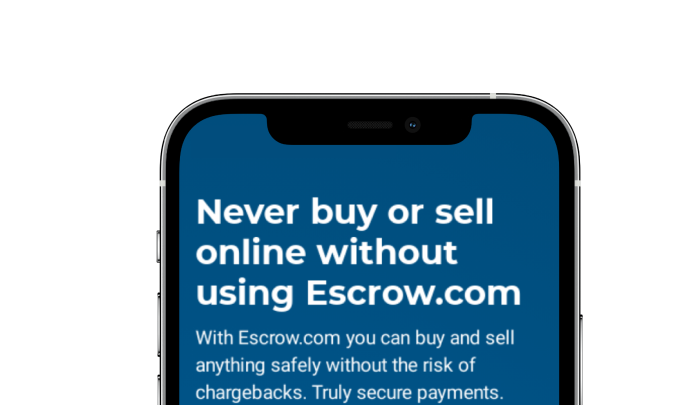
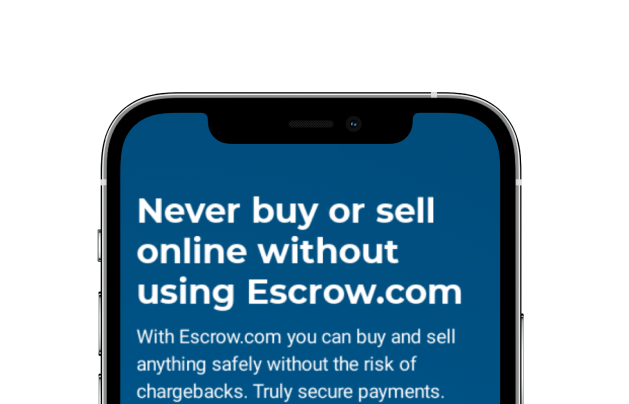
tablet and mobile

Changed region(s): [[0.151, 0.2079, 0.8458, 1.0]]

diff --git a/index.html b/index.html
@@ -17,11 +17,9 @@
     <main class="container-fluid p-0">
         <section style=" background-color: #F0EEEB;">
             <div class="p-2 d-flex justify-content-center bg-black text-white">
-                <img style="width: 22px;" src="./assets/party.svg" alt="">   
-                To celebrate Spenses's lauch, we will be waiving all fees for the entire month of april. <u>You will be receiving 100% of the earnings.</u>
-                <img style="width: 22px;" src="./assets/party.svg" alt="">   
+                <p class="text-white text-center mb-0"><img style="width: 22px;" src="./assets/party.svg" alt="">To celebrate Spenses's lauch, we will be waiving all fees for the entire month of april. <u>You will be receiving 100% of the earnings.</u><img style="width: 22px;" src="./assets/party.svg" alt=""></p>            
             </div>
-            <nav class="navbar navbar-expand-lg navbar-light   ">
+            <nav class="navbar navbar-expand-lg navbar-light p-lg-4  py-lg-5 ">
                 <div class="container">
                     <a class="navbar-brand fw-bold" href="#">spense.</a>
                     <button class="navbar-toggler" type="button" data-bs-toggle="collapse" data-bs-target="#navbarNav"
@@ -58,9 +56,9 @@
                 </div>
             </nav>
             <div class="container">
-                <div class="row align-items-center py-4">
-                    <div class="col-7 ">
-                        <h1 class="fw-bold">Share your unfiltered thoughts. Get paid.</h1>
+                <div class="row align-items-center pb-lg-5">
+                    <div class="col-lg-7 col-md-12 order-lg-1 order-2 py-md-5 py-5">
+                        <h1 class="fw-bold display-2">Share your unfiltered thoughts. Get paid.</h1>
                         <p class="fw-light">Spence is an open platform for individuals to share their unfiltered
                             thoughts.<br>
                             Discuss the topics you love, and get paid for doing <i>just</i> that.
@@ -78,17 +76,19 @@
                             <p class="my-0 ms-3">Withdraw your earnings anytime.</p>
                         </div>
                         <div class="row align-items-center mt-4 ">
-                            <div class="col-4">
+                            <div class="col-md-4 col-lg-4 col-7">
                                 <input class="form-control form-control-lg" type="text"
                                     placeholder="johndoe@exemple.com" aria-label=".form-control-lg">
                             </div>
-                            <div class="col-3">
+                            <div class="col-md-3 col-lg-3 col-4">
                                 <button class="btn-spencer">Get started</button>
                             </div>
                         </div>
                     </div>
-                    <div class="col-5">
-                        <img class="img-fluid" src="./assets/Hero Image (Desktop).png" alt="">
+                    <div id="hero" class="col-lg-5 col-md-12 order-lg-2 col-sm-12 order-1">
+                        <img class="img-fluid d-lg-block d-md-none d-sm-none d-none" src="./assets/Hero Image (Desktop).png" alt="">
+                        <img class="img-fluid d-lg-none d-md-block d-sm-none d-none" src="./assets/Hero Image (Tablet).png" alt="">
+                        <img class="img-fluid d-lg-none d-md-none d-sm-block d-block" src="./assets/Hero Image (Mobile).png" alt="">
                     </div>
                 </div>
             </div>
@@ -96,30 +96,39 @@
         <section>
             <div class="container">
                 <div class="row py-5">
-                    <div class="col-12 d-flex justify-content-between align-items-center">
-                        <img width="130" class="img-fluid" src="./assets/Facebook Logo.png" alt="">
-                        <img width="130" class="img-fluid" src="./assets/Dribbble Logo.png" alt="">
-                        <img width="130" class="img-fluid" src="./assets/Google Logo.png" alt="">
-                        <img width="130" class="img-fluid" src="./assets/Slack Logo.png" alt="">
-                        <img width="130" class="img-fluid" src="./assets/Reddit Logo.png" alt="">
-                        <img width="130" class="img-fluid" src="./assets/Youtube Logo.png" alt="">
+                    <div class="col-lg-12 col-md-12 d-flex justify-content-between align-items-center">
+                        <img width="130" class="img-fluid " src="./assets/Facebook Logo.png" alt="">
+                        <img width="110" class="img-fluid d-md-block d-lg-block " src="./assets/Dribbble Logo.png" alt="">
+                        <img width="110" class="img-fluid d-md-block d-lg-block d-none" src="./assets/Slack Logo.png" alt="">
+                        <img width="110" class="img-fluid d-md-none d-lg-block d-none" src="./assets/Google Logo.png" alt="">
+                        <img width="110" class="img-fluid d-md-none d-lg-block d-none" src="./assets/Pinterest Logo.png" alt="">
+                        <img width="100" class="img-fluid d-none" src="./assets/Reddit Logo.png" alt="">
+                        <img width="120" class="img-fluid" src="./assets/Youtube Logo.png" alt="">
                     </div>
                 </div>
-                <div class="row rounded" style="background-color: #F0EEEB;">
-                    <div class="img-fluid" style="background-image: url(./assets/Phone\ Mockup\ \(Desktop\).png);">
-                        <div class="col-6 " style="padding: 6rem;">
-                            <h2 class="fw-bold">Secure your money with Escrow.</h2>
+                <div class=" rounded"  style="background-color: #F0EEEB;">
+                    <div class=" row" >
+                        <div class="col-lg-6 col-md-12 pb-md-0 p-md-5 px-lg-5 py-lg-5 d-flex px-5 pt-5 flex-column justify-content-center">
+                            <h2 class="fw-bold h1">Secure your money with Escrow.</h2>
                             <p class="fw-light">Spence uses Escrow to secure all payements. We believe Escrow offers the
                                 highest
                                 level of security for your payements, so you never need to worry about scams.
                             </p>
-                            <a style="color: #5A5444" href="">Learn more about Escrow <span>
-                                <svg style="fill: #5A5444; width: 19px;"
+                            <a style="color: #5A5444" href="">Learn more about Escrow 
+                                <span>
+                                    <svg style="fill: #5A5444; width: 19px;"
                                         xmlns="http://www.w3.org/2000/svg" viewBox="0 0 24 24">
                                         <path
                                             d="M 19.568359 8.4902344 C 19.293578 8.4426563 19 8.6435469 19 8.9667969 L 19 11 L 2 11 A 1.0001 1.0001 0 1 0 2 13 L 19 13 L 19 15.033203 C 19 15.464203 19.520219 15.68 19.824219 15.375 L 22.857422 12.341797 C 23.046422 12.152797 23.046422 11.847203 22.857422 11.658203 L 19.824219 8.625 C 19.748219 8.549 19.659953 8.5060937 19.568359 8.4902344 z">
                                         </path>
-                                    </svg></span></a>
+                                    </svg>
+                                </span>
+                            </a>
+                        </div>
+                        <div class="col-lg-6 col-md-12 d-flex justify-content-center">
+                            <img class="d-lg-block d-md-none d-none img-fluid" src="./assets/Phone Mockup (Desktop).png" alt="">
+                            <img class="d-lg-none d-md-block d-none img-fluid" src="./assets/Phone Mockup (Tablet).png" alt="">
+                            <img class="d-lg-none d-md-none d-block img-fluid" src="./assets/Phone Mockup (Mobile).png" alt="">
                         </div>
                     </div>
                 </div>
@@ -127,17 +136,26 @@
         </section>
         <section>
             <div class="container">
-                <div class="row pt-5">
-                    <div class="col-6">
-                        <img style="width: 114%;" src="./assets/Text Editor.png" alt="">
+                <div class="row ">
+                    <div class="col-lg-6 col-md-12 order-md-2 order-lg-1 order-2 p-lg-5 py-md-5 py-5">
+                        <img style="width: 100%; box-shadow: 0px 25px 27px -29px #000000;" class="img-fluid " src="./assets/Text Editor.png" alt="">
                     </div>
-                    <div class="col-6" style="padding: 4rem;">
-                        <h2>A text editor like no other</h2>
+                    <div class="col-lg-6 col-md-12 order-md-1 order-lg-2 order-1 d-flex justify-content-center flex-column p-4 ">
+                        <h2 class="h1">A text editor like no other</h2>
                         <p>
                             Our text editor pulls you into focus mode with it's simplistic design and usability
                             so you can put out your best writings.
                         </p>
-                        <a style="color: #5A5444;" href="">Text Editor Live Demo</a>
+                        <a style="color: #5A5444;" href="">Text Editor Live Demo
+                            <span>
+                                <svg style="fill: #5A5444; width: 19px;"
+                                    xmlns="http://www.w3.org/2000/svg" viewBox="0 0 24 24">
+                                    <path
+                                        d="M 19.568359 8.4902344 C 19.293578 8.4426563 19 8.6435469 19 8.9667969 L 19 11 L 2 11 A 1.0001 1.0001 0 1 0 2 13 L 19 13 L 19 15.033203 C 19 15.464203 19.520219 15.68 19.824219 15.375 L 22.857422 12.341797 C 23.046422 12.152797 23.046422 11.847203 22.857422 11.658203 L 19.824219 8.625 C 19.748219 8.549 19.659953 8.5060937 19.568359 8.4902344 z">
+                                    </path>
+                                </svg>
+                            </span>
+                        </a>
                     </div>
                 </div>
             </div>
@@ -145,14 +163,14 @@
         <footer style="background-color: black;">
             <div class="container" style="padding-block: 4rem;">
                 <div class="row">
-                    <div class="col-4">
+                    <div class="col-lg-4 col-md-6">
                         <h4 class="text-white">spence.</h4>
                         <p class="fw-light ">Spence is an open platform for individuals to share their unfiltered
                             thoughts.<br>
                             Discuss the topics you love, and get paid for doing <i>just</i> that.
                         </p>
                     </div>
-                    <div class="col-2">
+                    <div class="col-lg-2 col-md-3 col-6">
                         <h4>Sitemap</h4>
                         <ul>
                             <li style="list-style-type:none;">
@@ -160,7 +178,7 @@
                             </li>
                         </ul>
                     </div>
-                    <div class="col-2">
+                    <div class="col-lg-2 col-md-3 col-6">
                         <h4>Resources</h4>
                         <ul>
                             <li style="list-style-type:none;">
@@ -174,7 +192,7 @@
                             </li>
                         </ul>
                     </div>
-                    <div class="col-2">
+                    <div class="col-lg-2 col-md-3 col-6">
                         <h4>Company</h4>
                         <ul>
                             <li style="list-style-type:none;">
@@ -188,7 +206,7 @@
                             </li>
                         </ul>
                     </div>
-                    <div class="col-2">
+                    <div class="col-lg-2 col-md-3 col-6">
                         <h4>Opportunities</h4>
                         <ul>
                             <li style="list-style-type:none;">

diff --git a/style.css b/style.css
@@ -26,3 +26,12 @@ footer h4 {
 footer p {
     color: #9E9E9E;
 }
+
+/* @media only screen and (max-width: 992px) {
+    #phone{
+        background-image: url('./assets/Phone\ Mockup\ \(Desktop\).png');
+        background-repeat: no-repeat;
+    }
+}  */
+@media only screen and (max-width: 992px) {
+} 
